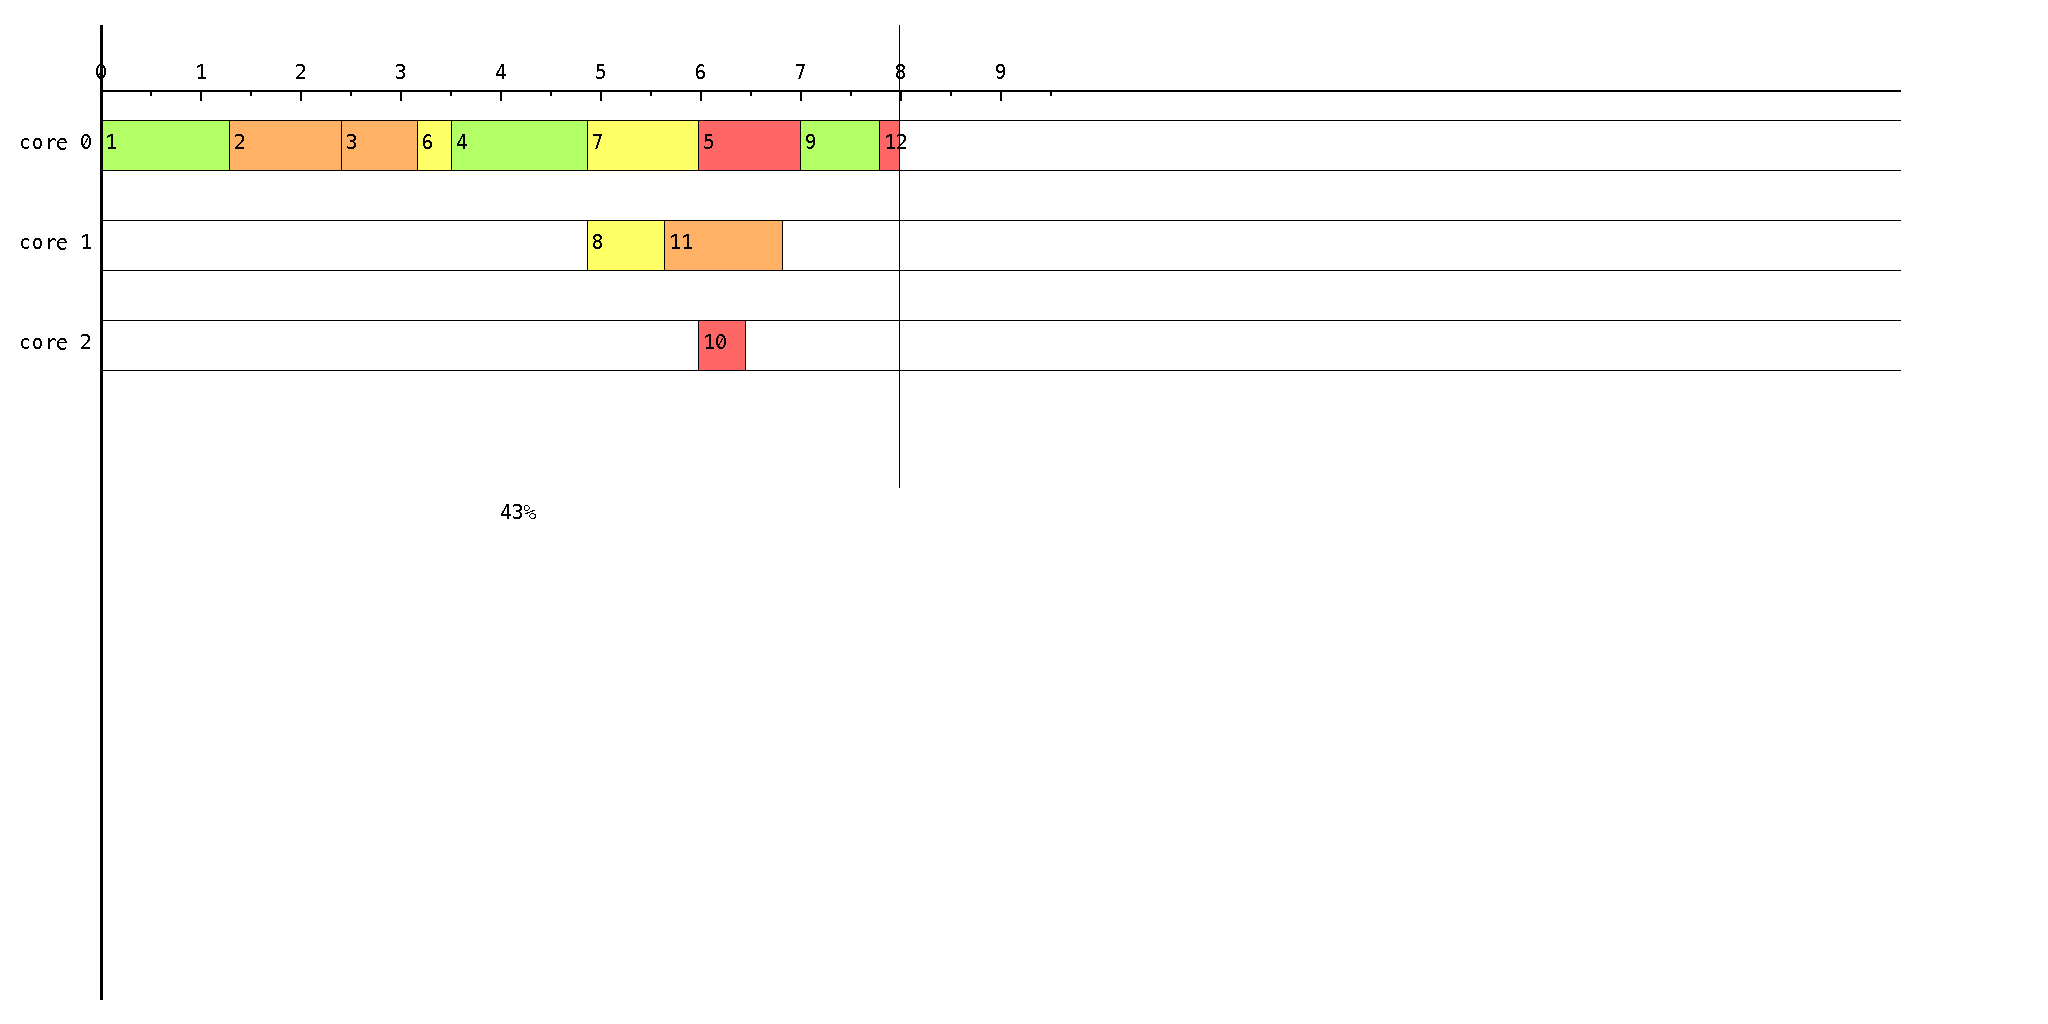
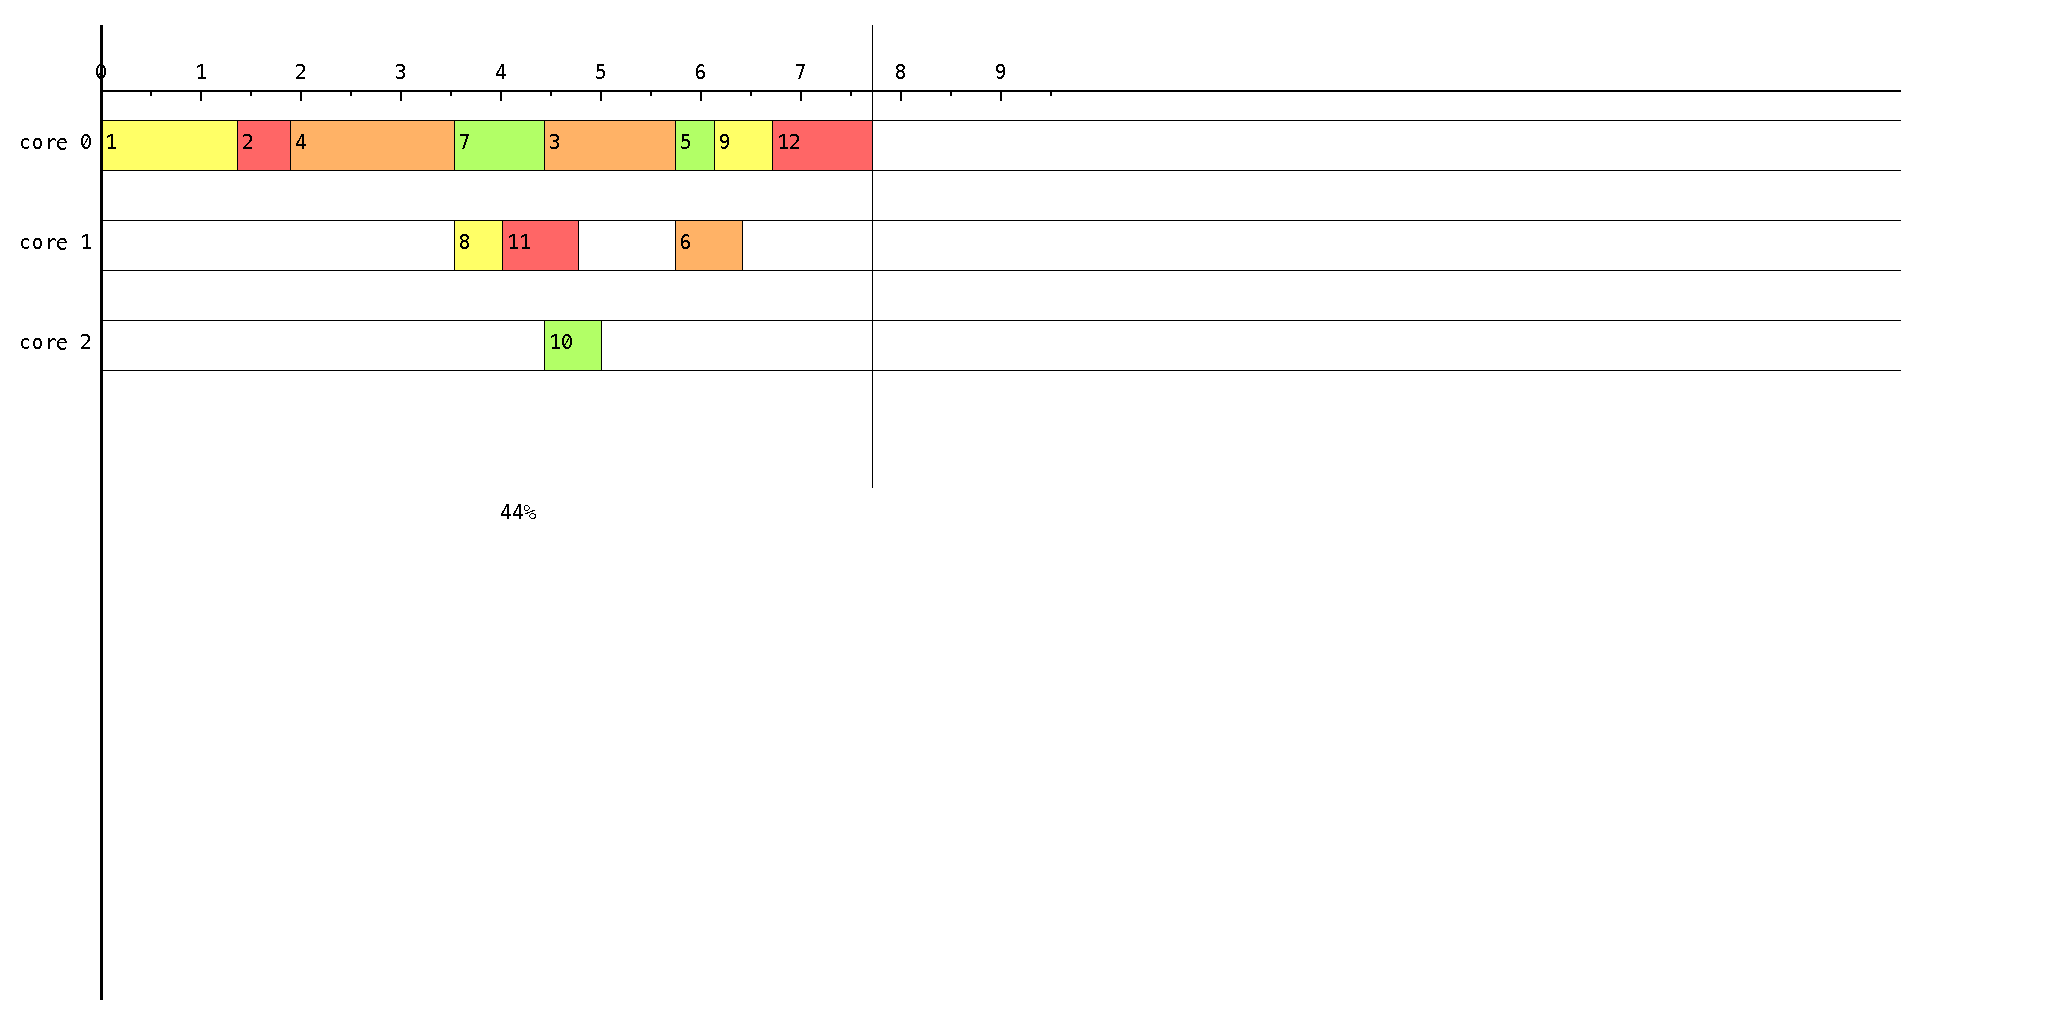
add cpop

diff --git a/gty/src/main_cpop.py b/gty/src/main_cpop.py
@@ -1,0 +1,72 @@
+import maxcut
+from minlevel import minLevel, init_minLevel
+from example import init_dag, dag
+from cpop import cpop
+from containerize import *
+import draw
+
+def main():
+    # init graph
+    impact_factor, arc_num, vertex_num, core = maxcut.graph1_parameter()
+    graph, vertex_cpu, process, communication_cpu = maxcut.initial_graph_1(vertex_num, arc_num, impact_factor)
+
+    # calculate maxtopcut
+    S, T, cut = maxcut.maxtopocut(graph, process, vertex_num, core)
+    M = cut * 0.9
+
+    # calculate backward edge
+    init_minLevel(vertex_num, graph)
+    while cut > M:
+        print(S, T)
+        u, v = minLevel(graph, S, T, 0, vertex_num-1)
+        if u == 0 and v == 0:
+            print('MinLevel Heuristic Failed\n')
+            return
+        maxcut.update_graph(graph, u, v)
+        S, T, cut = maxcut.maxtopocut(graph, process, vertex_num, core)
+    
+    # init example for heft
+    init_dag(graph, communication_cpu, core)
+
+    # heft
+    processors, tasks, priority_list = cpop()
+    order = [t.id for t in priority_list]
+    
+    # containerize
+    r_dag, cpath, index, cont, bridge_tasks, new_tasks, new_processors = containerize(dag, processors, tasks, order, 'forward', 2)
+    print('forward:')
+    draw.draw_canvas([(x.id, round(x.ast, 1), round(x.aft, 1), x.processor) for x in new_tasks], cont, 'forward.png')
+    print(new_tasks[vertex_num].aft)
+    print(cont)
+
+    # containerize
+    r_dag, cpath, index, cont, bridge_tasks, new_tasks, new_processors = containerize(dag, processors, tasks, order, 'backward', 2)
+    print('backward:')
+    draw.draw_canvas([(x.id, round(x.ast, 1), round(x.aft, 1), x.processor) for x in new_tasks], cont, 'backward.png')
+    print(new_tasks[vertex_num].aft)
+    print(cont)
+
+    # in order
+    r_dag, cpath, index, cont, bridge_tasks, new_tasks, new_processors = containerize(dag, processors, tasks, order, 'inorder', 2)
+    print('in order:')
+    draw.draw_canvas([(x.id, round(x.ast, 1), round(x.aft, 1), x.processor) for x in new_tasks], cont, 'inorder.png')
+    print(new_tasks[vertex_num].aft)
+    print(cont)
+
+    # random
+    r_dag, cpath, index, cont, bridge_tasks, new_tasks, new_processors = containerize(dag, processors, tasks, order, 'rand', 2)
+    print('random:')
+    draw.draw_canvas([(x.id, round(x.ast, 1), round(x.aft, 1), x.processor) for x in new_tasks], cont, 'random.png')
+    print(new_tasks[vertex_num].aft)
+    print(cont)
+
+    # upper bound
+    one_tasks, one_processors = update_schedule(dag, r_dag, processors, tasks, range(1, vertex_num + 1), order, [i for i in range(vertex_num + 1)])
+    print('upper bound:')
+    draw.draw_canvas([(x.id, round(x.ast, 1), round(x.aft, 1), x.processor) for x in one_tasks], cont, 'upper.png')
+    print(one_tasks[vertex_num].aft)
+    print(cont)
+    
+
+if __name__ == '__main__':
+    main()

diff --git a/gty/src/cpop.py b/gty/src/cpop.py
@@ -1,4 +1,5 @@
 from example import dag, commcost, compcost
+import example
 import statistics as stats
 from queue import PriorityQueue
 import logging
@@ -137,9 +138,9 @@ def assign(i, p, tasks, processors):
 
 
 
-if __name__ == "__main__":
+def cpop():
     # Create Processors
-    P = 3
+    P = example.core
     processors = [Processor(i) for i in range(P)]
     # Create Tasks
     N = len(dag)
@@ -221,3 +222,10 @@ if __name__ == "__main__":
         logging.info('tasks on processor %s: %s', p.id, [{t.id: (t.ast, t.aft)} for t in p.tasks])
 
     logging.info('makespan: %s', makespan(tasks))
+
+    priority_list = []
+    for p in processors:
+        for t in p.tasks:
+            priority_list.append(t)
+    print(priority_list)
+    return processors, tasks, priority_list

diff --git a/gty/src/draw.py b/gty/src/draw.py
@@ -96,8 +96,10 @@ def draw_schedule(sche, cont, data):
         draw_line_h(data, [x_p+50, 100], 1800, 1, [0, 0, 0])
 
     sum_cpu_time = last_end*3
+    """
     for print_num in [used_cpu_time, sum_cpu_time,  used_cpu_time/sum_cpu_time]:
         print("%.2f" % print_num, end='  ')
+    """
 
     draw_text(data, [500, 500],
               str(int(used_cpu_time/sum_cpu_time*100))+'%', [0, 0, 0])

diff --git a/gty/src/containerize.py b/gty/src/containerize.py
@@ -83,7 +83,7 @@ def bfs_forward(dag, tasks, index, t):
     vis = set()
     cnt = 0
     print("Vc+Vp:")
-    print(Vc+Vp)
+    print(Vc, Vp)
     cont[cnt] = set()
     iso_sum = 0
     
@@ -142,7 +142,7 @@ def bfs_backward(r_dag, tasks, index, t):
     vis = set()
     cnt = 0
     print("Vc+Vp:")
-    print(Vc+Vp)
+    print(Vc, Vp)
     cont[cnt] = set()
     iso_sum = 0
     
